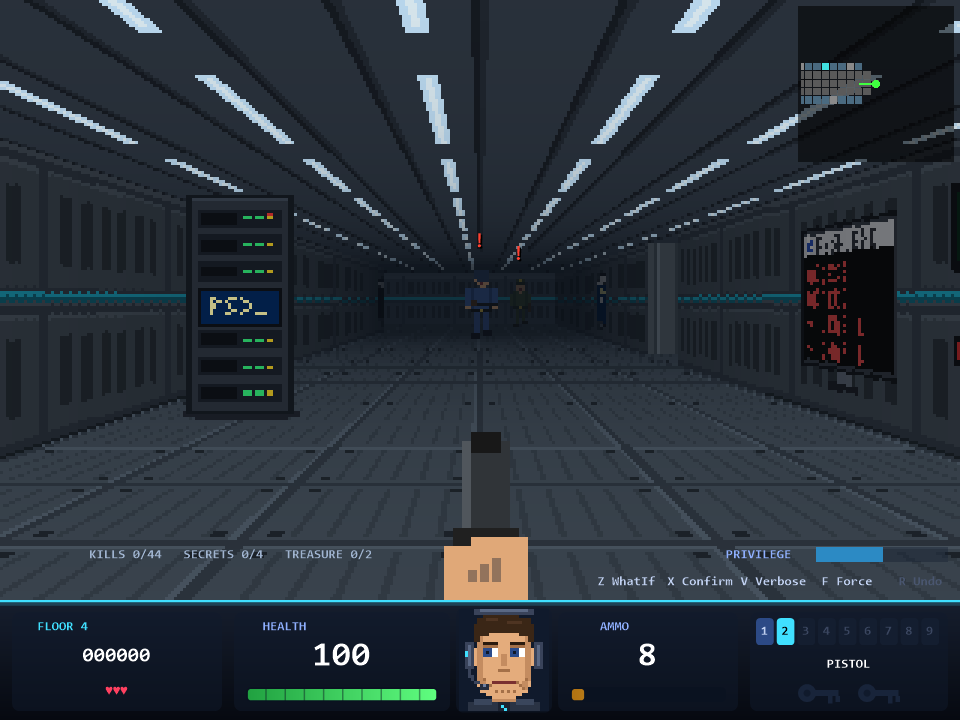
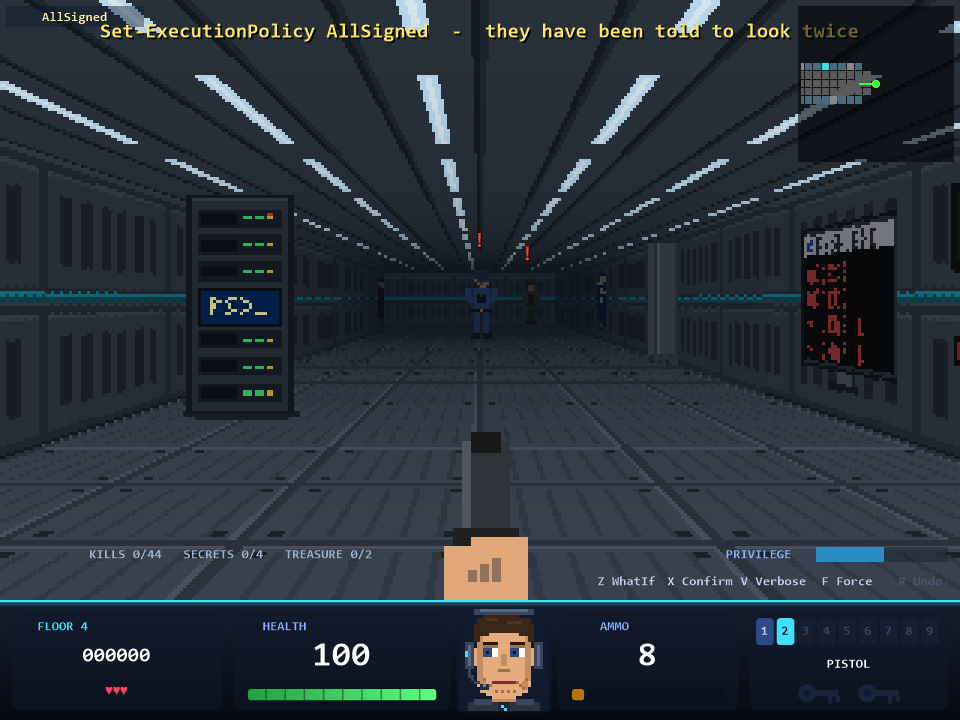
Boss mechanics: THE PRINTER jams, and BLUE SCREEN waits in Ring 0
THE PRINTER has a paper jam after every second salvo: four seconds of
helpless blinking and triple damage - and the first three times it also
finishes two print jobs, kamikaze robots that count towards the kills.

The core of Ring 0 has a new last boss, BLUE SCREEN: a monitor riding on a
tangle of cables. Bursts, a rocket, and the crash - the picture tears and the
player's controls hang for most of a second (kept in the floor's statistics,
so Undo and the forecast know about it). When it dies the system halts:
everybody left stands still for twenty seconds.

Also moves the execution policy label to the top left corner, where no
weapon covers it, and renews the pictures.

diff --git a/README.md b/README.md
@@ -83,7 +83,7 @@ map format, HUD, menus, music, network protocol.
 | ![Terminal mode](media/terminal.png) | ![The daily dungeon](media/dungeon.png) |
 | `-Terminal`: the same game as half-block characters | The plan of a generated dungeon: the lift behind the gold door, the key with the boss |
 | ![The Data Centre](media/datacentre.png) | ![Ring 0](media/ring0.png) |
-| Floor 6: a cold aisle of the data centre – there is a sniper at the far end of every one | Floor 10: the core of Ring 0. The last commander is expecting you |
+| Floor 6: a cold aisle of the data centre – there is a sniper at the far end of every one | Floor 10: the core of Ring 0 – dark, and something in there is glowing blue |
 | ![A floor's tests](media/tests.png) | ![The player list](media/players.png) |
 | Every floor is a test suite, and Pester reports: a pacifist run through the catacombs | `F1` in a network game: on the host it is an admin panel – `K` kicks, `B` bans, `U` lifts a ban |
 
@@ -143,7 +143,7 @@ ends with a tally (kills, secrets, treasures, a bonus for beating the par time).
 | 7 | The Archive | 46 / ~3700 | Two halls of shelves to get lost in, with things waiting between them. Four secrets – the microfiche knows them all |
 | 8 | The Foundry | 35 / ~5500 | A production line: a conveyor with three crushers and a gate, three levers – and THE PRINTER in the assembly hall |
 | 9 | The Executive Floor | 46 / ~7000 | Carpet and plants. A gallery of offices, the board (two commanders) behind the silver door, and a CEO who keeps a printer |
-| 10 | Ring 0 | 47 / ~8800 | Two rings around the core. Patrols outside, levers for the gates, and in the core two printers, the last commander – and the lift in the middle of it |
+| 10 | Ring 0 | 47 / ~10000 | Two rings around the core. Patrols outside, levers for the gates, and in the dark of the core two printers, **BLUE SCREEN** – and the lift in the middle of it |
 
 **Every floor is a test suite.** When you throw the lift switch the run is put through ten tests and the result is
 printed the way Pester prints it – `[+] beats the par time 24ms`, `[-] fires no gun (blades are fine) 19ms` – on the
@@ -205,7 +205,8 @@ all: there you need cover, the special weapons and a plan.
 | Security camera | 8–12 | hangs from the ceiling and sweeps a quarter turn to either side. Harmless – but every second it sees you heats the [execution policy](#stealth) by eight points. Not a kill; `Get-Enemy -Kind camera \| Stop-Enemy` switches it off quietly |
 | Sentry gun | 35–65 | never moves, fires bursts, explodes when destroyed. `Get-Enemy -Kind turret \| Set-Turret -Owner Me` (25 privilege) makes it change sides: from then on it shoots whoever else comes within ten tiles |
 | Commander – *LEGACY.BAT* | 350–1200 | "runs as SYSTEM, nobody dares to touch it". Twin machine guns: three rounds per salvo, then a pause – that is your moment. Drops the gold key |
-| War machine – *THE PRINTER* | 550–1800 | "PC LOAD LETTER". Super boss: gun bursts and salvos of three rockets (real projectiles with splash damage – pillars give cover) |
+| War machine – *THE PRINTER* | 550–1800 | "PC LOAD LETTER". Super boss: gun bursts and salvos of three rockets (real projectiles with splash damage – pillars give cover). After every second salvo it has a **paper jam**: four seconds of helpless blinking and triple damage – but the first three times it also finishes two print jobs, and they come rolling at you |
+| *BLUE SCREEN* | 700–2200 | ":( your admin ran into a problem". The last one, in the core of Ring 0: a monitor riding on a tangle of cables. Bursts, a rocket – and **the crash**: the picture tears and your controls hang for most of a second (Undo still works). When it dies the system halts: everybody left stands still for twenty seconds |
 | Pilot – *THE PRINTER DRIVER* | 140–500 | "unsigned". Phase 2: climbs out of the war machine's wreck – few hit points, but very fast |
 
 The AI works on the tile grid: enemies patrol along waypoints, open doors, chase you in a zig-zag and have a reaction
@@ -332,7 +333,7 @@ Anyone who has not noticed you yet takes **double damage**. What they notice:
 * **Sight:** enemies only see what is in front of them. Sneaking, you can get right behind them.
 * The knife and throwing knives are silent. Shield bearers are best dealt with exactly this way.
 
-**The building has an execution policy** – how nervous the whole floor is, shown next to the noise meter. Being seen
+**The building has an execution policy** – how nervous the whole floor is, shown in the top left corner. Being seen
 and making noise heat it up, keeping quiet lets it cool down again:
 
 | Policy | The house | What it means |
@@ -567,6 +568,7 @@ and any number of `@spawn <min. difficulty> <x> <y> <enemy code>` reinforcements
 | `..` | floor |
 | `P^ P> Pv P<` | player start and view direction |
 | `g d e o m s h k b u` + direction | guard, dog, elite, officer, mutant, sniper, shield bearer, kamikaze bot, commander, war machine |
+| `x` + direction | BLUE SCREEN |
 | `c t` + `n e s w` | security camera, sentry gun (floors 6–10 have them) |
 | direction `^ > v <` / `n e s w` / `N E S W` | standing / standing and "deaf" (ambush, reacts to sight only) / patrolling |
 | `:^ :> :v :<` | waypoint: patrols turn here |
